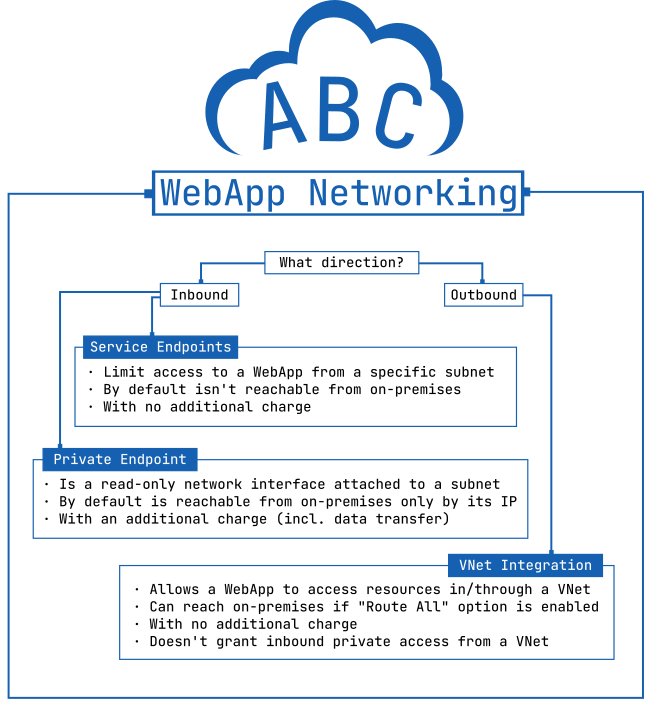
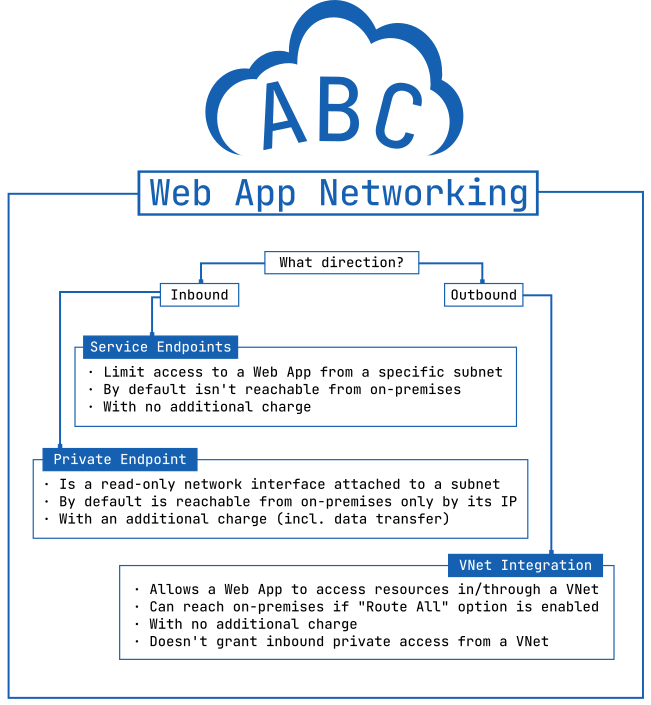
mains struct done

diff --git a/paas-vnet-03/README.md b/paas-vnet-03/README.md
@@ -1,14 +1,12 @@
-# 
-## Introduction
+# Azure Platform as a service networking
+
+This document gives an overview of Platform as a Service (PaaS) Networking. Azure Web App is used as example:
 
 ![](/images/network/abc_paas_networking.png)
 
-* Explains a difference between inbound and outobund, gives an example of Service Endpoints and VNet Integration usage 
-* Private Endpoint example
-* Private Endpoint with DNS
+Related materials:
 
-[Integrate Azure services with virtual networks for network isolation](https://docs.microsoft.com/en-us/azure/virtual-network/vnet-integration-for-azure-services)
-
-[Azure Private Endpoint DNS configuration](https://docs.microsoft.com/en-us/azure/private-link/private-endpoint-dns)
-
-![](/images/network/webapp_networking_example.png)
+* [More detailed explanation how Service Endpoints and VNet Integration works with a demo materials](/paas-vnet-00/README.md)
+* [More detailed explanation how Private Endpoint works with a demo materials](/paas-vnet-01/README.md)
+* [Advanced scenario of using a DNS forwarder for Private Endpoint exposing to on-prem](/paas-vnet-02/README.md)
+* [Detailed review of PaaS networking from Microsoft](https://docs.microsoft.com/en-us/azure/virtual-network/vnet-integration-for-azure-services)
